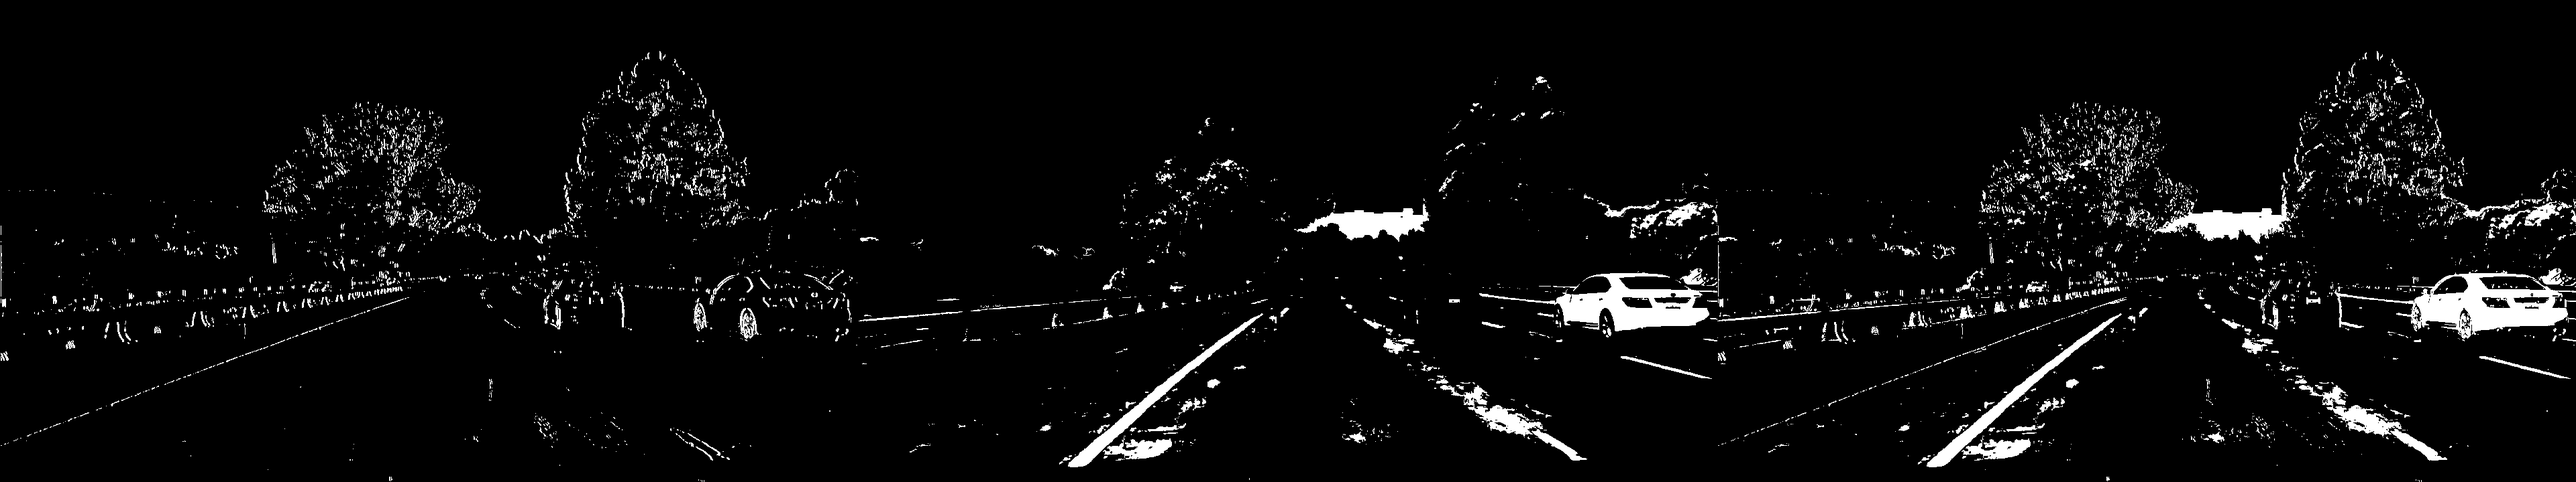
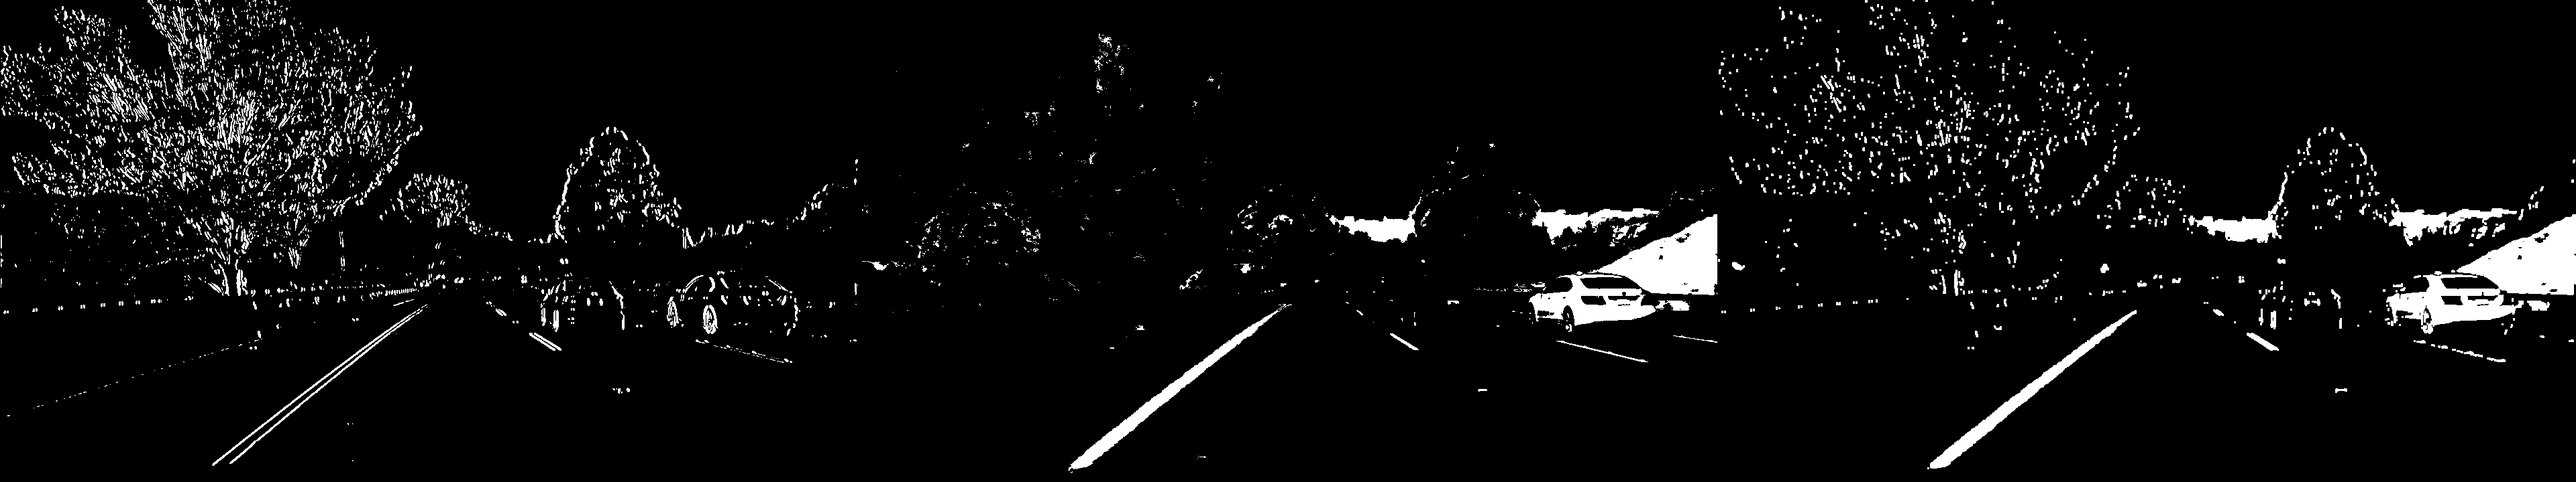
lane det

diff --git a/lane_detection.py b/lane_detection.py
@@ -1,0 +1,145 @@
+import numpy as np
+import cv2 as cv
+
+from undistort import undistort
+from thresholded_binary import threshold
+from perspective import warp, M_INV, DST
+
+XM_PER_PIX = 3.7 / (DST[1][0] - DST[0][0])
+YM_PER_PIX = 30 / 720
+
+
+def find_lane_pixels(binary_warped, n_windows=9, margin=100, min_pix=50):
+    """Find lane pixels with a histogram + sliding window search."""
+    binary = (binary_warped > 0).astype(np.uint8)
+    h, w = binary.shape
+
+    histogram = np.sum(binary[h // 2:, :], axis=0)
+    midpoint = w // 2
+    left_current = np.argmax(histogram[:midpoint])
+    right_current = np.argmax(histogram[midpoint:]) + midpoint
+
+    nonzero_y, nonzero_x = binary.nonzero()
+    window_height = h // n_windows
+
+    left_inds, right_inds = [], []
+    out_img = np.zeros((h, w, 3), np.uint8)
+
+    for i in range(n_windows):
+        y_low = h - (i + 1) * window_height
+        y_high = h - i * window_height
+
+        xl_low, xl_high = left_current - margin, left_current + margin
+        xr_low, xr_high = right_current - margin, right_current + margin
+
+        in_y = (nonzero_y >= y_low) & (nonzero_y < y_high)
+        good_left = (in_y & (nonzero_x >= xl_low) & (nonzero_x < xl_high)).nonzero()[0]
+        good_right = (in_y & (nonzero_x >= xr_low) & (nonzero_x < xr_high)).nonzero()[0]
+
+        left_inds.append(good_left)
+        right_inds.append(good_right)
+
+        if len(good_left) > min_pix:
+            left_current = int(np.mean(nonzero_x[good_left]))
+        if len(good_right) > min_pix:
+            right_current = int(np.mean(nonzero_x[good_right]))
+
+    left_inds = np.concatenate(left_inds)
+    right_inds = np.concatenate(right_inds)
+
+    leftx, lefty = nonzero_x[left_inds], nonzero_y[left_inds]
+    rightx, righty = nonzero_x[right_inds], nonzero_y[right_inds]
+
+    out_img[lefty, leftx] = (0, 0, 255)
+    out_img[righty, rightx] = (255, 0, 0)
+
+    return leftx, lefty, rightx, righty, out_img
+
+
+def fit_polynomial(x, y):
+    """Fit x = A*y^2 + B*y + C."""
+    return np.polyfit(y, x, 2)
+
+
+def curvature_radius(leftx, lefty, rightx, righty, y_eval):
+    """Radius of curvature in meters at y_eval (pixels), averaged over both lines."""
+    left_fit = np.polyfit(lefty * YM_PER_PIX, leftx * XM_PER_PIX, 2)
+    right_fit = np.polyfit(righty * YM_PER_PIX, rightx * XM_PER_PIX, 2)
+    y = y_eval * YM_PER_PIX
+
+    left_r = (1 + (2 * left_fit[0] * y + left_fit[1]) ** 2) ** 1.5 / abs(2 * left_fit[0])
+    right_r = (1 + (2 * right_fit[0] * y + right_fit[1]) ** 2) ** 1.5 / abs(2 * right_fit[0])
+    return (left_r + right_r) / 2
+
+
+def vehicle_offset(left_fit, right_fit, img_width, y_eval):
+    """Offset of the vehicle from the lane center in meters (negative = left of center)."""
+    left_x = np.polyval(left_fit, y_eval)
+    right_x = np.polyval(right_fit, y_eval)
+    lane_center = (left_x + right_x) / 2
+    return (img_width / 2 - lane_center) * XM_PER_PIX
+
+
+def draw_lane(undist, binary_warped, left_fit, right_fit):
+    """Draw the lane area on the warped view and project it back onto the original image."""
+    h, w = binary_warped.shape
+    ploty = np.linspace(0, h - 1, h)
+    left_fitx = np.polyval(left_fit, ploty)
+    right_fitx = np.polyval(right_fit, ploty)
+
+    color_warp = np.zeros((h, w, 3), np.uint8)
+    pts_left = np.transpose(np.vstack([left_fitx, ploty]))
+    pts_right = np.flipud(np.transpose(np.vstack([right_fitx, ploty])))
+    pts = np.vstack((pts_left, pts_right)).astype(np.int32)
+    cv.fillPoly(color_warp, [pts], (0, 255, 0))
+
+    unwarped = cv.warpPerspective(color_warp, M_INV, (w, h))
+    return cv.addWeighted(undist, 1, unwarped, 0.3, 0)
+
+
+def process_image(img):
+    """Full pipeline for one BGR image. Returns the result and the sliding window debug image."""
+    undist = undistort(img)
+    binary_warped = warp(threshold(undist))
+    h, w = binary_warped.shape
+
+    leftx, lefty, rightx, righty, debug = find_lane_pixels(binary_warped)
+
+    if len(leftx) == 0 or len(rightx) == 0:
+        return undist, debug   # no lane found, return the undistorted image unchanged
+
+    left_fit = fit_polynomial(leftx, lefty)
+    right_fit = fit_polynomial(rightx, righty)
+
+    ploty = np.linspace(0, h - 1, h)
+    for fit, name in ((left_fit, 'f_left'), (right_fit, 'f_right')):
+        pts = np.stack([np.polyval(fit, ploty), ploty], axis=1).astype(np.int32)
+        cv.polylines(debug, [pts], False, (0, 255, 255), 3)
+
+    for i, (fit, name) in enumerate(((left_fit, 'f_left'), (right_fit, 'f_right'))):
+        text = f'{name}(y) = {fit[0]:.2e}*y^2 + {fit[1]:.2e}*y + {fit[2]:.1f}'
+        cv.putText(debug, text, (30, 40 + 35 * i), cv.FONT_HERSHEY_SIMPLEX, 0.8, (0, 255, 255), 2)
+
+    radius = curvature_radius(leftx, lefty, rightx, righty, h - 1)
+    offset = vehicle_offset(left_fit, right_fit, w, h - 1)
+
+    result = draw_lane(undist, binary_warped, left_fit, right_fit)
+    side = 'left' if offset < 0 else 'right'
+    cv.putText(result, f'Radius of curvature: {radius:.0f} m', (30, 50),
+               cv.FONT_HERSHEY_SIMPLEX, 1, (255, 255, 255), 2)
+    cv.putText(result, f'Vehicle is {abs(offset):.2f} m {side} of center', (30, 90),
+               cv.FONT_HERSHEY_SIMPLEX, 1, (255, 255, 255), 2)
+    return result, debug
+
+
+if __name__ == '__main__':
+    img = cv.imread('test_images/test1.jpg')
+    result, debug = process_image(img)
+
+    cv.imwrite('docs/color_fit_lines.png', debug)
+    cv.imwrite('docs/example_output.png', result)
+
+    cv.imshow('Sliding windows', debug)
+    cv.imshow('Result', result)
+    cv.waitKey(0)
+    cv.destroyAllWindows()

diff --git a/thresholded_binary.py b/thresholded_binary.py
@@ -5,8 +5,9 @@ from undistort import undistort
 
 
 def sobel_x_mask(img, thresh=40, ksize=3):
-    """Binarna maska vertikalnih ivica (Sobel po X osi)."""
+    """Binary mask of vertical edges (Sobel along the X axis)."""
     gray = cv.cvtColor(img, cv.COLOR_BGR2GRAY)
+    gray = cv.GaussianBlur(gray, (5, 5), 0)
     sobelX = cv.Sobel(gray, ddepth=cv.CV_32F, dx=1, dy=0, ksize=ksize)
     absX = np.absolute(sobelX)
     scaled = np.uint8(255 * absX / np.max(absX))
@@ -15,20 +16,21 @@ def sobel_x_mask(img, thresh=40, ksize=3):
 
 
 def color_mask(img):
-    """Binarna maska žute i bijele boje u HSV prostoru."""
+    """Binary mask of yellow and white lane markings in HSV."""
     hsv = cv.cvtColor(img, cv.COLOR_BGR2HSV)
     yellow = cv.inRange(hsv, np.array([15, 80, 100]), np.array([35, 255, 255]))
-    white = cv.inRange(hsv, np.array([0, 0, 200]), np.array([179, 40, 255]))
+    white = cv.inRange(hsv, np.array([0, 0, 200]), np.array([179, 30, 255]))
     return cv.bitwise_or(yellow, white)
 
 
 def threshold(img):
-    """Kombinuje gradijent i boju u jednu binarnu sliku."""
-    return cv.bitwise_or(sobel_x_mask(img), color_mask(img))
-
+    """Combine gradient and color into one binary image and remove small specks."""
+    combined = cv.bitwise_or(sobel_x_mask(img), color_mask(img))
+    kernel = np.ones((3, 3), np.uint8)
+    return cv.morphologyEx(combined, cv.MORPH_OPEN, kernel)
 
 if __name__ == '__main__':
-    img = undistort(cv.imread('test_images/test1.jpg'))
+    img = undistort(cv.imread('test_images/test6.jpg'))
 
     sobel = sobel_x_mask(img)
     color = color_mask(img)
@@ -36,6 +38,6 @@ if __name__ == '__main__':
 
     cv.imwrite('docs/binary_combo_example.png', np.hstack((sobel, color, combined)))
 
-    cv.imshow('Sobel X | Boja | Kombinovano', np.hstack((sobel, color, combined)))
+    cv.imshow('Sobel X | Color | Combined', np.hstack((sobel, color, combined)))
     cv.waitKey(0)
     cv.destroyAllWindows()

diff --git a/perspective.py b/perspective.py
@@ -1,0 +1,38 @@
+import numpy as np
+import cv2 as cv
+
+from undistort import undistort
+from thresholded_binary import threshold
+
+SRC = np.float32([[598, 460], [706, 460], [1071, 718], [247, 719]])
+
+DST = np.float32([[320, 0], [960, 0], [960, 720], [320, 720]])
+
+M = cv.getPerspectiveTransform(SRC, DST)
+M_INV = cv.getPerspectiveTransform(DST, SRC)
+
+
+def warp(img):
+    """Transform an image to the bird's-eye view."""
+    h, w = img.shape[:2]
+    return cv.warpPerspective(img, M, (w, h), flags=cv.INTER_LINEAR)
+
+
+if __name__ == '__main__':
+    img = undistort(cv.imread('test_images/straight_lines2.jpg'))
+
+    annotated = img.copy()
+    cv.polylines(annotated, [SRC.astype(np.int32)], True, (0, 0, 255), 2)
+
+    warped = warp(img)
+    cv.polylines(warped, [DST.astype(np.int32)], True, (0, 0, 255), 2)
+
+    cv.imwrite('docs/warped_straight_lines.png', np.hstack((annotated, warped)))
+
+    binary_warped = warp(threshold(img))
+    cv.imwrite('docs/binary_warped.png', binary_warped)
+
+    cv.imshow('Source | Warped', np.hstack((annotated, warped)))
+    cv.imshow('Binary warped', binary_warped)
+    cv.waitKey(0)
+    cv.destroyAllWindows()

diff --git a/pick_points.py b/pick_points.py
@@ -1,0 +1,18 @@
+import cv2 as cv
+
+from undistort import undistort
+
+img = undistort(cv.imread('test_images/straight_lines1.jpg'))
+
+
+def on_click(event, x, y, flags, param):
+    if event == cv.EVENT_LBUTTONDOWN:
+        print(f'Clicked point: [{x}, {y}]')
+        cv.circle(img, (x, y), 4, (0, 0, 255), -1)
+        cv.imshow('Pick points', img)
+
+
+cv.imshow('Pick points', img)
+cv.setMouseCallback('Pick points', on_click)
+cv.waitKey(0)
+cv.destroyAllWindows()
